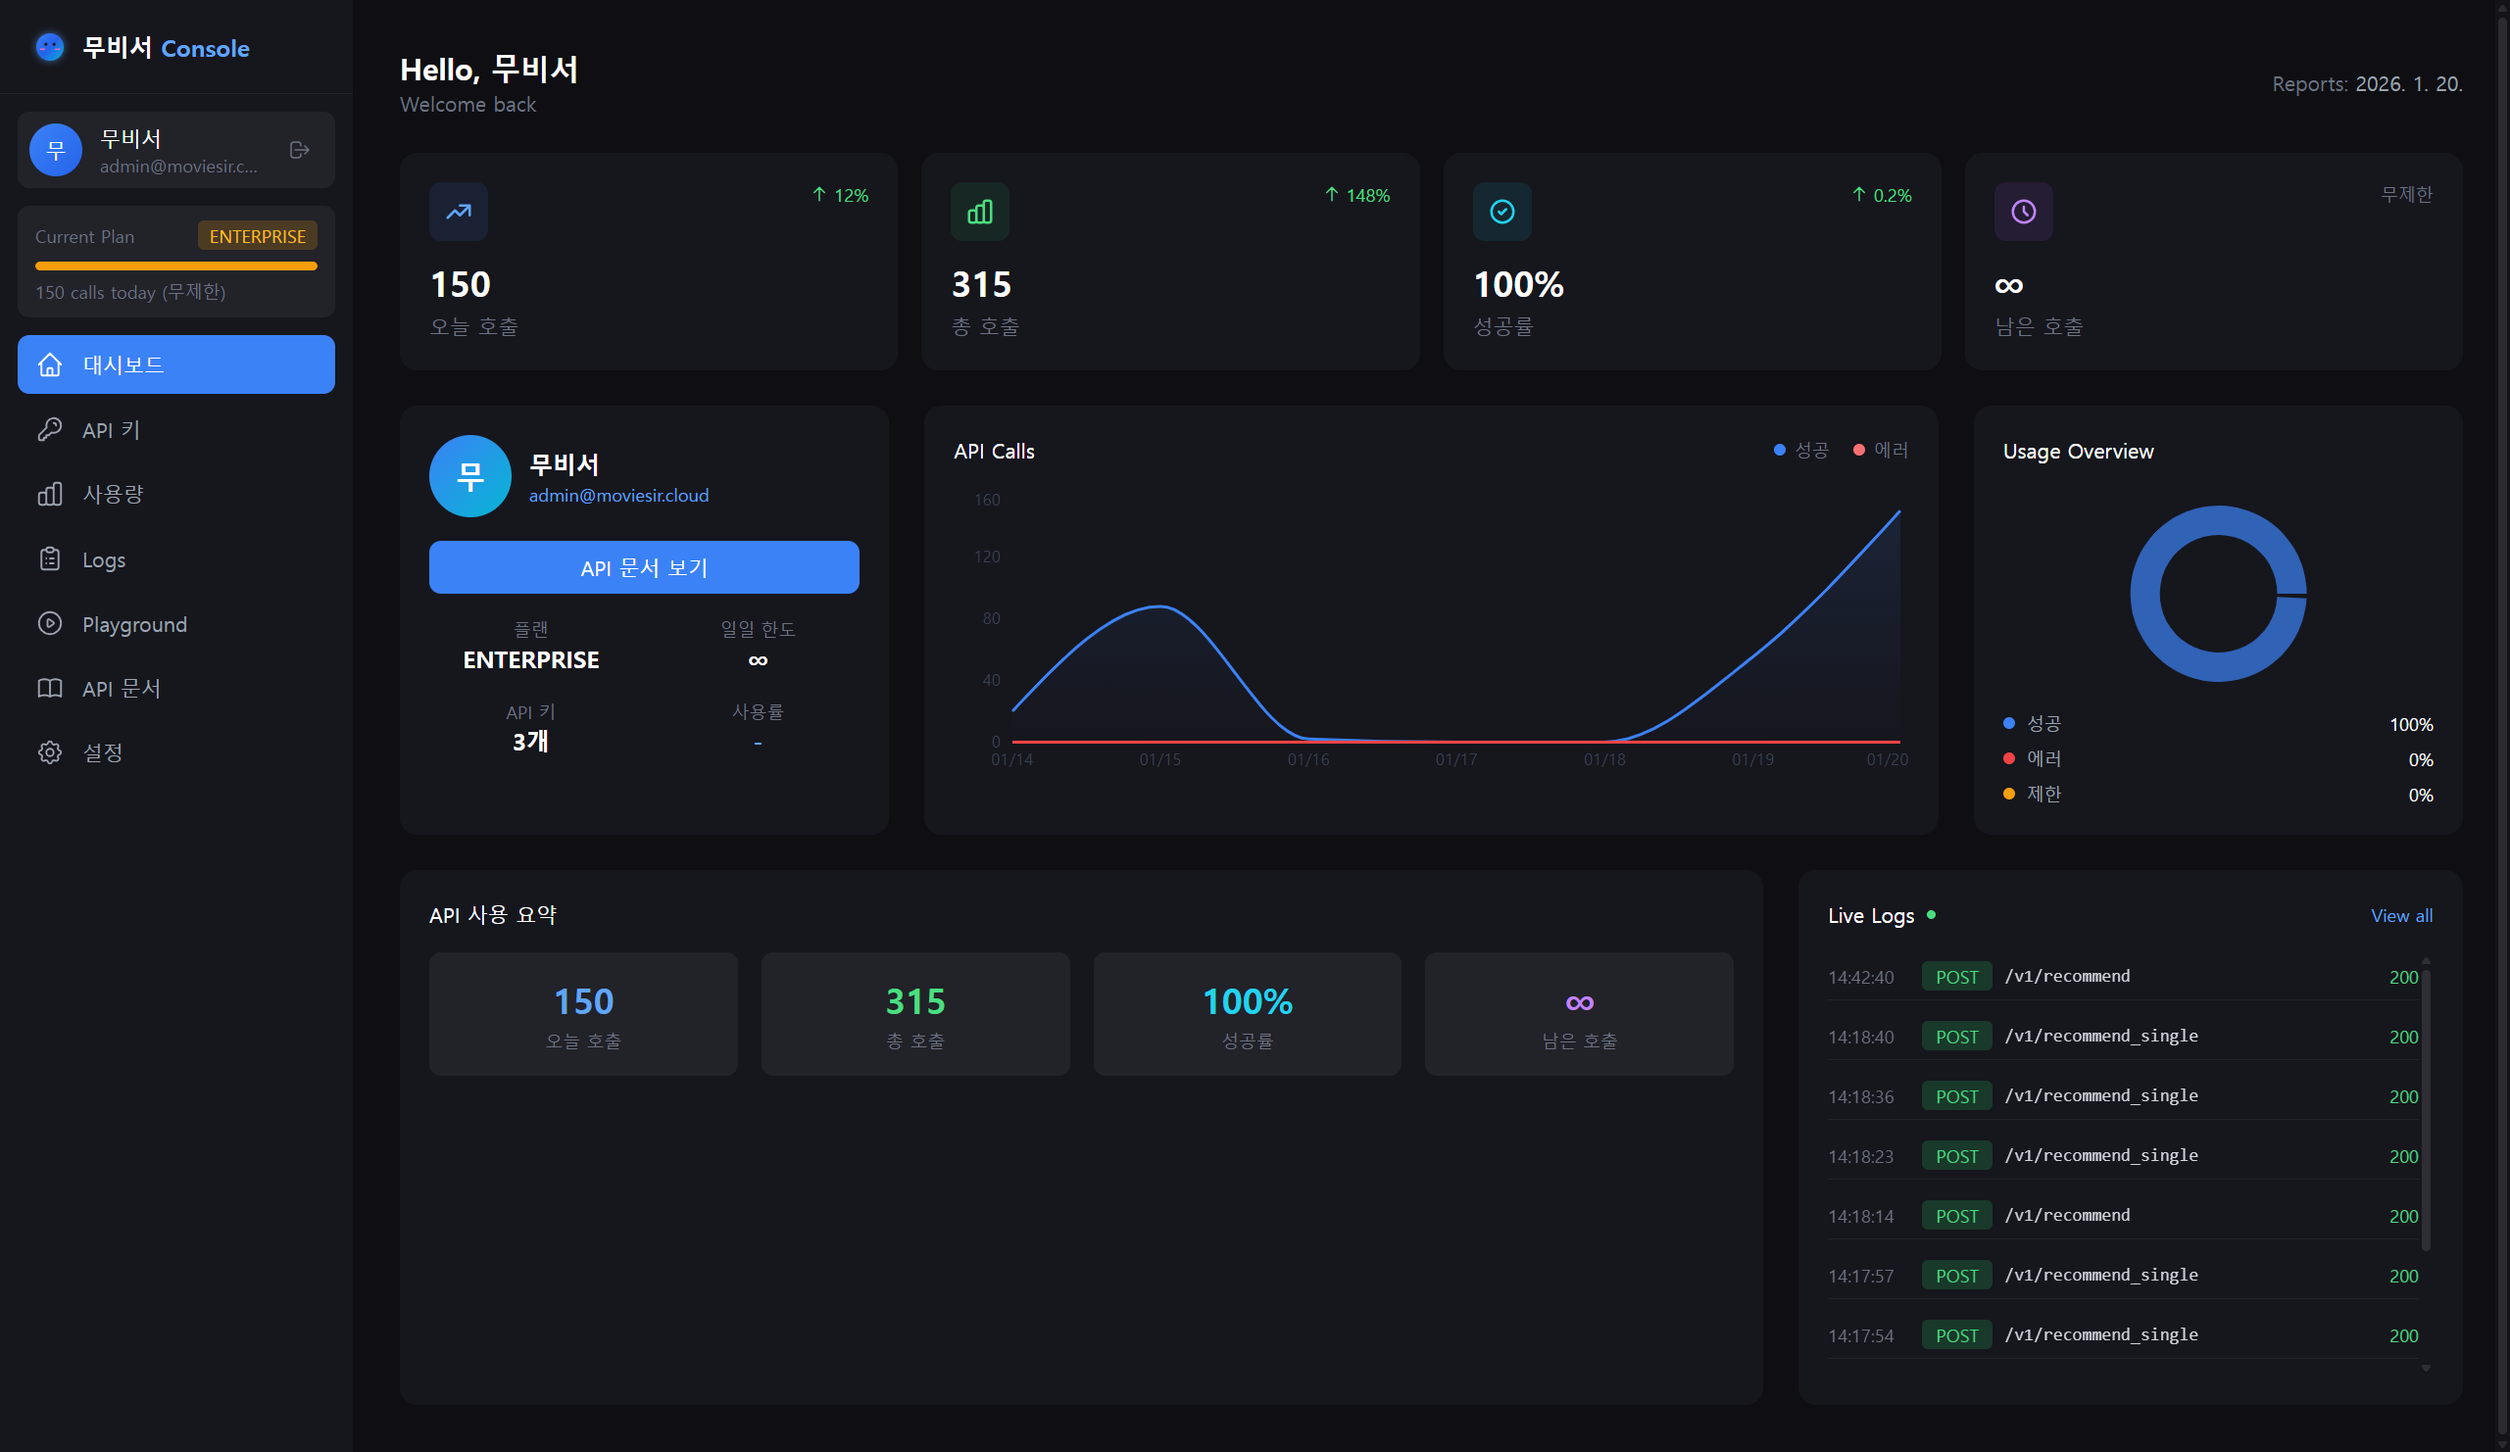
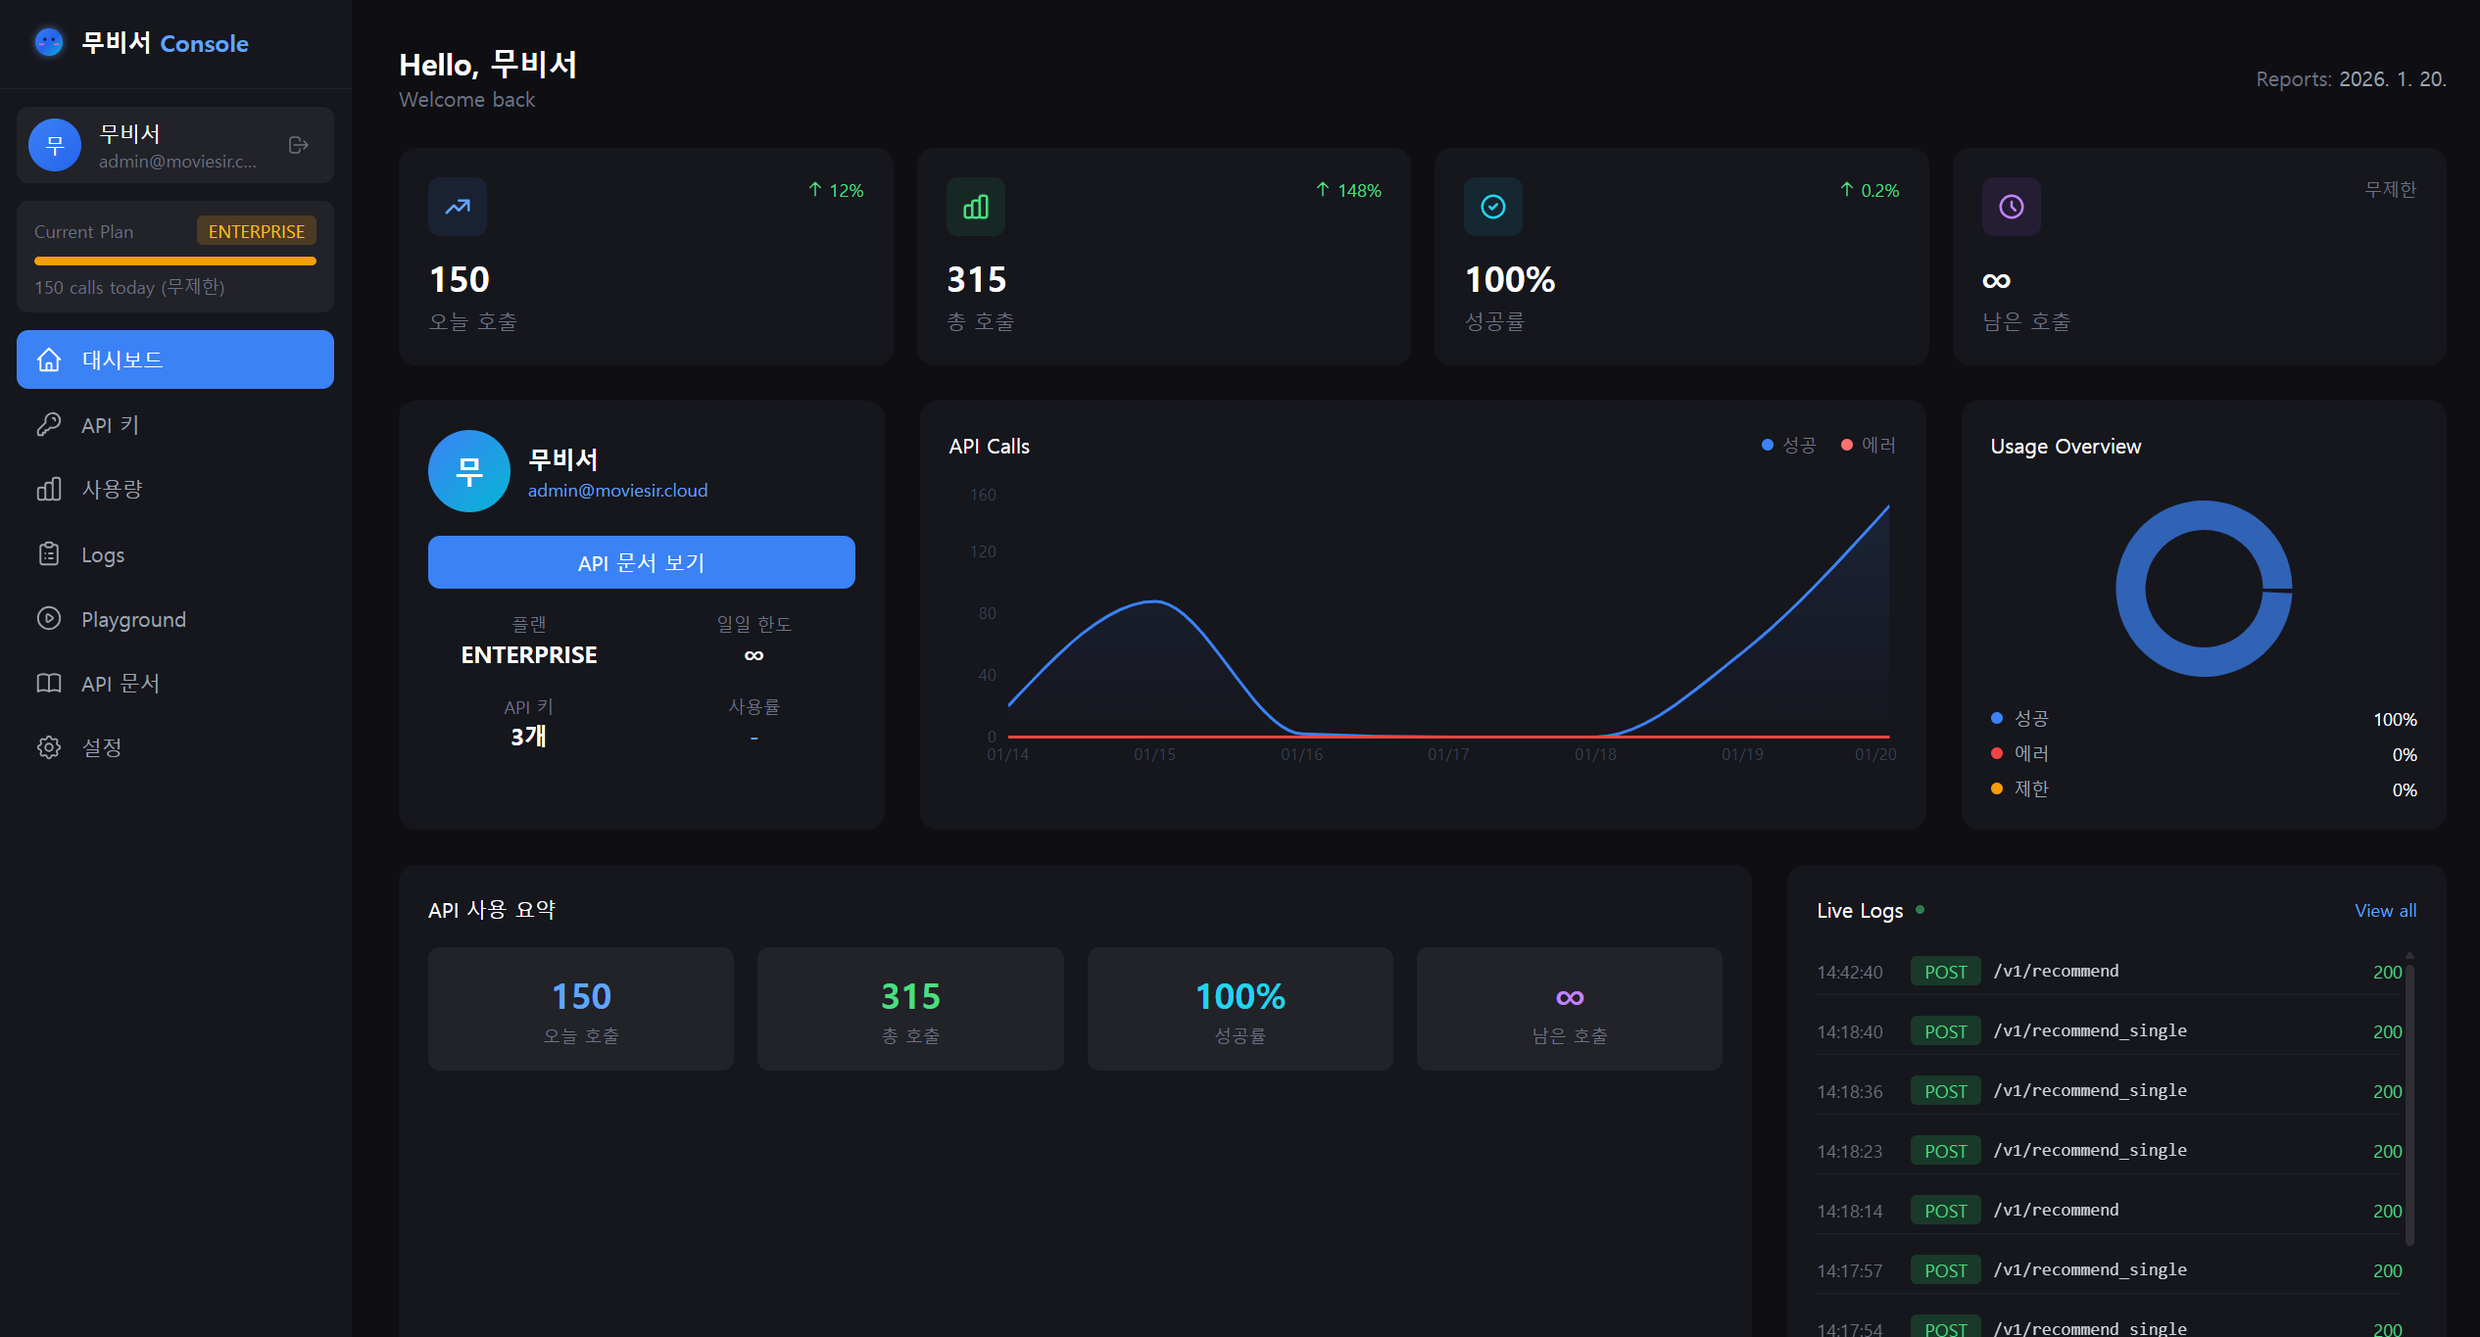
feat(api-page): 고퀄리티 디바이스 목업 추가
- PC 모니터: iMac 스타일 (그라데이션 프레임, Safari 브라우저 바, 스탠드)
- 아이폰: iPhone 14 Pro 스타일 (다이나믹 아일랜드, 티타늄 프레임, iOS 상태바)
- B2B Console 대시보드 스크린샷 교체
- PWA 모바일 스크린샷 교체 (iPhone 14 Pro Max)

diff --git a/frontend-console/src/pages/Api.tsx b/frontend-console/src/pages/Api.tsx
@@ -226,29 +226,33 @@ export default function Api() {
                 </p>
               </div>
 
-              {/* PC Monitor Mockup */}
+              {/* PC Monitor Mockup - iMac Style */}
               <div className="relative mx-auto max-w-[900px]">
-                {/* Monitor Frame */}
-                <div className="bg-gray-800 rounded-t-xl p-3 pb-0">
-                  {/* Browser Chrome */}
-                  <div className="bg-gray-700 rounded-t-lg overflow-hidden">
-                    <div className="flex items-center gap-2 px-4 py-2 bg-gray-800 border-b border-gray-700">
-                      <div className="flex gap-1.5">
-                        <div className="w-3 h-3 rounded-full bg-red-500/80" />
-                        <div className="w-3 h-3 rounded-full bg-yellow-500/80" />
-                        <div className="w-3 h-3 rounded-full bg-green-500/80" />
-                      </div>
-                      <div className="flex-1 mx-4">
-                        <div className="bg-gray-700 rounded-md px-3 py-1 text-xs text-gray-400 flex items-center gap-2">
-                          <svg className="w-3 h-3" fill="none" stroke="currentColor" viewBox="0 0 24 24">
-                            <path strokeLinecap="round" strokeLinejoin="round" strokeWidth={2} d="M12 15v2m-6 4h12a2 2 0 002-2v-6a2 2 0 00-2-2H6a2 2 0 00-2 2v6a2 2 0 002 2zm10-10V7a4 4 0 00-8 0v4h8z" />
-                          </svg>
-                          console.moviesir.cloud/dashboard
+                {/* Monitor Body */}
+                <div className="relative bg-gradient-to-b from-[#2a2a2e] to-[#1a1a1e] rounded-[20px] p-[10px] shadow-[0_60px_120px_-20px_rgba(0,0,0,0.7)]">
+                  {/* Screen Bezel */}
+                  <div className="bg-[#0a0a0a] rounded-[12px] p-[2px] overflow-hidden">
+                    {/* Browser Chrome */}
+                    <div className="bg-[#1e1e22] rounded-t-[10px] overflow-hidden">
+                      <div className="flex items-center gap-2 px-4 py-2.5 bg-[#2d2d32]">
+                        <div className="flex gap-2">
+                          <div className="w-3 h-3 rounded-full bg-[#ff5f57] shadow-[0_0_6px_rgba(255,95,87,0.4)]" />
+                          <div className="w-3 h-3 rounded-full bg-[#febc2e] shadow-[0_0_6px_rgba(254,188,46,0.4)]" />
+                          <div className="w-3 h-3 rounded-full bg-[#28c840] shadow-[0_0_6px_rgba(40,200,64,0.4)]" />
                         </div>
+                        <div className="flex-1 mx-8">
+                          <div className="bg-[#1a1a1e] rounded-lg px-4 py-1.5 text-xs text-gray-400 flex items-center gap-2 max-w-md mx-auto">
+                            <svg className="w-3.5 h-3.5 text-green-500" fill="currentColor" viewBox="0 0 24 24">
+                              <path d="M12 1L3 5v6c0 5.55 3.84 10.74 9 12 5.16-1.26 9-6.45 9-12V5l-9-4z"/>
+                            </svg>
+                            <span className="text-gray-500">console.moviesir.cloud/dashboard</span>
+                          </div>
+                        </div>
+                        <div className="w-16" />
                       </div>
                     </div>
                     {/* Screenshot */}
-                    <div className="aspect-[16/9] bg-gray-900 overflow-hidden">
+                    <div className="aspect-[16/9] bg-[#0f0f12] overflow-hidden">
                       <img
                         src="/images/console-dashboard.png"
                         alt="B2B Console Dashboard"
@@ -268,10 +272,17 @@ export default function Api() {
                       </div>
                     </div>
                   </div>
+                  {/* Chin with Logo */}
+                  <div className="h-6 flex items-center justify-center">
+                    <div className="w-8 h-8 rounded-full bg-gradient-to-b from-[#3a3a3e] to-[#2a2a2e] flex items-center justify-center">
+                      <div className="w-2 h-2 rounded-full bg-[#1a1a1e]" />
+                    </div>
+                  </div>
                 </div>
-                {/* Monitor Stand */}
-                <div className="mx-auto w-24 h-4 bg-gray-800" />
-                <div className="mx-auto w-40 h-2 bg-gray-700 rounded-b-lg" />
+                {/* Stand Neck */}
+                <div className="mx-auto w-[60px] h-[50px] bg-gradient-to-b from-[#2a2a2e] to-[#3a3a3e] rounded-b-lg" />
+                {/* Stand Base */}
+                <div className="mx-auto w-[180px] h-[12px] bg-gradient-to-b from-[#3a3a3e] to-[#2a2a2e] rounded-[6px] shadow-[0_10px_30px_-10px_rgba(0,0,0,0.5)]" />
               </div>
 
               {/* Feature Pills */}
@@ -289,30 +300,50 @@ export default function Api() {
           <div className="relative py-20">
             <div className="max-w-[1100px] mx-auto px-6">
               <div className="grid md:grid-cols-2 gap-12 items-center">
-                {/* Phone Mockup */}
+                {/* Phone Mockup - iPhone 14 Pro Style */}
                 <div className="flex justify-center md:order-2">
                   <div className="relative">
                     {/* Phone Frame */}
-                    <div className="w-[280px] bg-gray-900 rounded-[3rem] p-3 shadow-2xl border border-gray-700">
-                      {/* Notch */}
-                      <div className="absolute top-0 left-1/2 -translate-x-1/2 w-32 h-7 bg-gray-900 rounded-b-2xl z-10" />
+                    <div className="relative w-[280px] bg-[#1a1a1e] rounded-[52px] p-[12px] shadow-[0_50px_100px_-20px_rgba(0,0,0,0.8),inset_0_1px_1px_rgba(255,255,255,0.1)]">
+                      {/* Titanium Edge Effect */}
+                      <div className="absolute inset-0 rounded-[52px] bg-gradient-to-br from-[#3a3a3e] via-[#1a1a1e] to-[#2a2a2e] opacity-50" />
+                      {/* Side Button - Right */}
+                      <div className="absolute right-[-2px] top-[120px] w-[3px] h-[60px] bg-[#2a2a2e] rounded-l-sm" />
+                      {/* Volume Buttons - Left */}
+                      <div className="absolute left-[-2px] top-[100px] w-[3px] h-[30px] bg-[#2a2a2e] rounded-r-sm" />
+                      <div className="absolute left-[-2px] top-[140px] w-[3px] h-[50px] bg-[#2a2a2e] rounded-r-sm" />
                       {/* Screen */}
-                      <div className="bg-gray-800 rounded-[2.25rem] overflow-hidden">
+                      <div className="relative bg-[#000] rounded-[40px] overflow-hidden">
+                        {/* Dynamic Island */}
+                        <div className="absolute top-[12px] left-1/2 -translate-x-1/2 w-[90px] h-[28px] bg-black rounded-full z-20 flex items-center justify-center gap-2">
+                          <div className="w-[8px] h-[8px] rounded-full bg-[#1a1a1e] ring-1 ring-[#2a2a2e]" />
+                        </div>
                         {/* Status Bar */}
-                        <div className="flex justify-between items-center px-6 py-2 text-[10px] text-white/80">
+                        <div className="relative z-10 flex justify-between items-center px-8 pt-[14px] pb-1 text-[12px] font-semibold text-white">
                           <span>9:41</span>
                           <div className="flex items-center gap-1">
-                            <svg className="w-3 h-3" fill="currentColor" viewBox="0 0 24 24">
-                              <path d="M12.01 21.49L23.64 7c-.45-.34-4.93-4-11.64-4C5.28 3 .81 6.66.36 7l11.63 14.49.01.01.01-.01z"/>
+                            {/* Signal */}
+                            <svg className="w-[17px] h-[12px]" viewBox="0 0 17 12" fill="white">
+                              <rect x="0" y="7" width="3" height="5" rx="0.5"/>
+                              <rect x="4.5" y="4.5" width="3" height="7.5" rx="0.5"/>
+                              <rect x="9" y="2" width="3" height="10" rx="0.5"/>
+                              <rect x="13.5" y="0" width="3" height="12" rx="0.5"/>
                             </svg>
-                            <svg className="w-4 h-3" fill="currentColor" viewBox="0 0 24 24">
-                              <rect x="2" y="7" width="20" height="10" rx="2" stroke="currentColor" strokeWidth="2" fill="none"/>
-                              <rect x="4" y="9" width="12" height="6" fill="currentColor"/>
+                            {/* WiFi */}
+                            <svg className="w-[16px] h-[12px]" viewBox="0 0 16 12" fill="white">
+                              <path d="M8 2.4c2.6 0 5 1 6.8 2.8l-1.3 1.3C12 5 10.1 4.2 8 4.2S4 5 2.5 6.5L1.2 5.2C3 3.4 5.4 2.4 8 2.4zm0 3.2c1.7 0 3.2.7 4.4 1.8l-1.3 1.3c-.8-.8-1.9-1.3-3.1-1.3s-2.3.5-3.1 1.3L3.6 7.4c1.2-1.1 2.7-1.8 4.4-1.8zm0 3.2c.9 0 1.6.3 2.2.9L8 12l-2.2-2.3c.6-.6 1.3-.9 2.2-.9z"/>
                             </svg>
+                            {/* Battery */}
+                            <div className="flex items-center gap-0.5">
+                              <div className="w-[22px] h-[11px] border border-white/40 rounded-[3px] p-[2px]">
+                                <div className="h-full w-full bg-white rounded-[1px]" />
+                              </div>
+                              <div className="w-[1px] h-[4px] bg-white/40 rounded-r-full" />
+                            </div>
                           </div>
                         </div>
                         {/* App Content */}
-                        <div className="aspect-[9/16] bg-gray-950 overflow-hidden">
+                        <div className="aspect-[9/19.5] bg-[#0f0f12]">
                           <img
                             src="/images/pwa-mobile.png"
                             alt="MovieSir PWA"
@@ -327,12 +358,13 @@ export default function Api() {
                             <p className="text-xs text-center">무비서 PWA</p>
                           </div>
                         </div>
+                        {/* Home Indicator */}
+                        <div className="absolute bottom-2 left-1/2 -translate-x-1/2 w-[120px] h-[4px] bg-white/80 rounded-full" />
                       </div>
-                      {/* Home Indicator */}
-                      <div className="mx-auto mt-2 w-32 h-1 bg-gray-600 rounded-full" />
                     </div>
                     {/* Glow Effect */}
-                    <div className="absolute -inset-4 bg-blue-500/20 blur-3xl rounded-full -z-10" />
+                    <div className="absolute -inset-8 bg-blue-500/15 blur-[60px] rounded-full -z-10" />
+                    <div className="absolute -inset-4 bg-blue-400/10 blur-[30px] rounded-full -z-10" />
                   </div>
                 </div>
 
